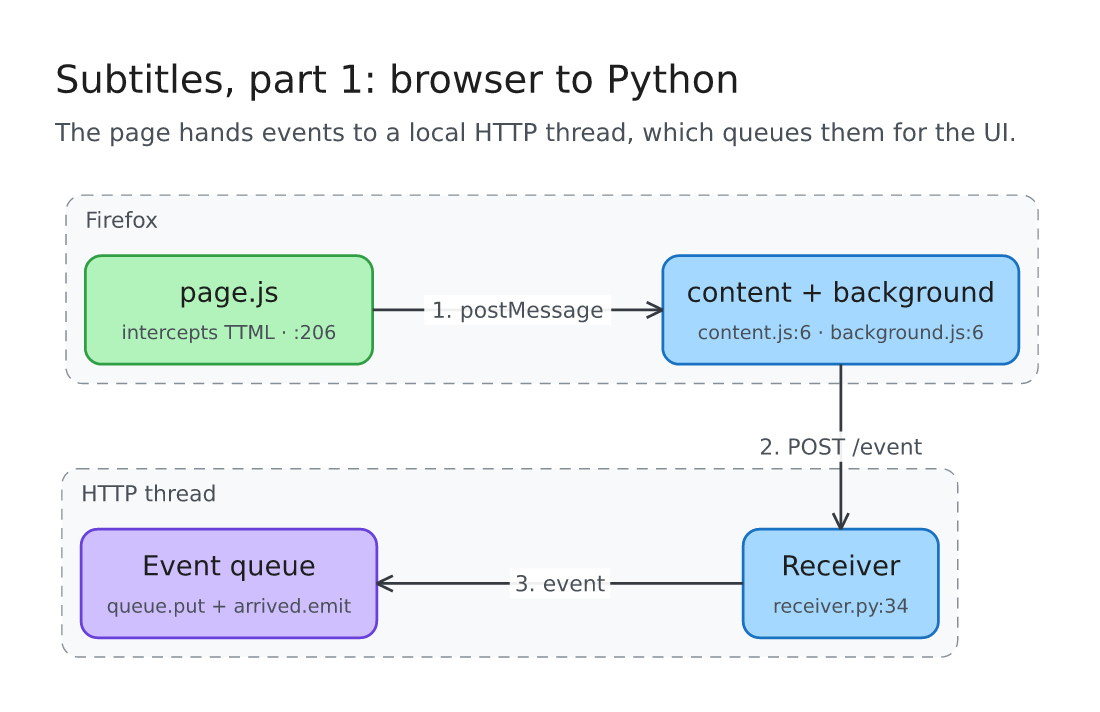
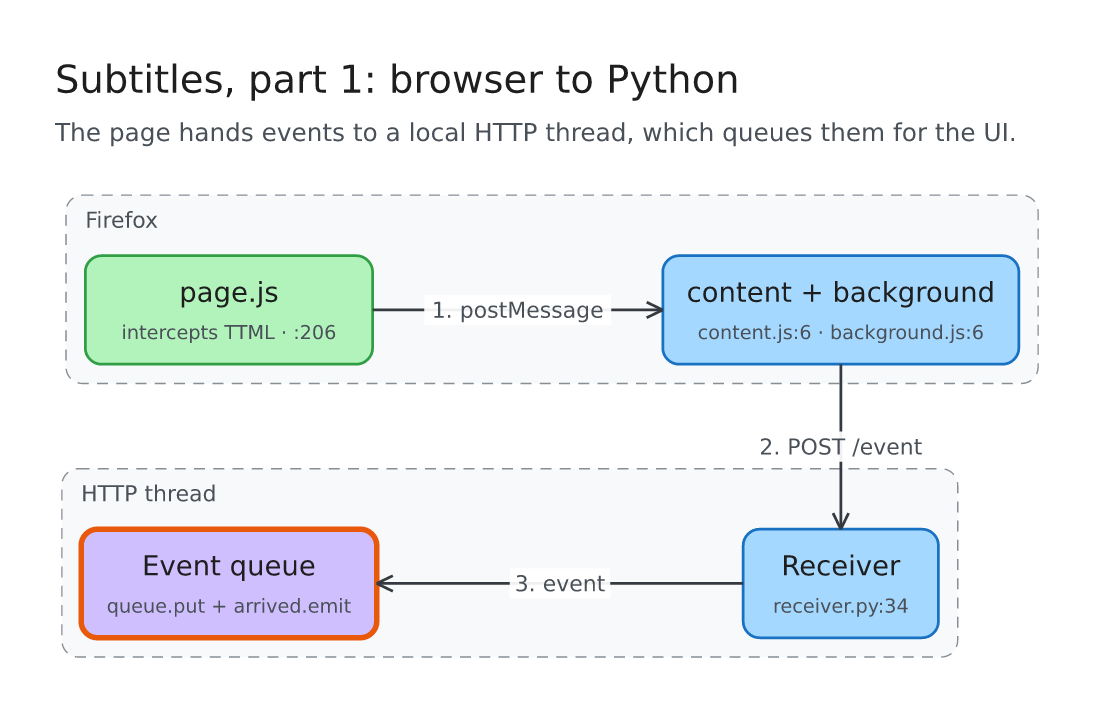
feat: require a proof line per arrow, with an 'unsure' escape hatch
Edges take 'at' (the file:line where the call or handoff happens) and 'unsure'
(drawn dashed with a '?'). The build warns about arrows with neither and prints
a table of arrows with their proof lines for the walkthrough. SKILL.md adds a
'prove every arrow' step to the workflow; examples now carry real proof lines.

Changed region(s): [[0.0618, 0.7416, 0.3709, 0.927]]

diff --git a/skills/code-sketch/SKILL.md b/skills/code-sketch/SKILL.md
@@ -13,13 +13,14 @@ You never write Excalidraw JSON by hand. You write a tiny **spec** (nodes, edges
 
 1. **Pin the question.** Write one sentence the diagram must answer ("How does a hit become a level-up?"). This becomes `takeaway`. If you cannot state it, you are not ready to draw.
 2. **Read just enough code** to answer that question. Note `file:line` for every node you will draw; those references are what lets the reader jump from the picture back to the code.
-3. **Choose what to show** (see "Keeping it small"). Aim for 5-8 nodes; the script refuses more than 12.
-4. **Write the spec** to a scratch file (JSON, format below). Write labels and takeaway in the user's language; keep code identifiers verbatim.
-5. **Build:** `node <skill-dir>/scripts/sketch.mjs spec.json --out ./diagrams`
+3. **Prove every arrow.** An arrow is a claim about the code, and the script cannot check it, so you do. For each arrow, find the line where that call, event, `await` or handoff actually happens and put it in the edge's `at` (`"GameSession.cs:314"`). Direction matters: the arrow starts at whoever *performs* the call or sends the data. If you cannot find the line, either drop the arrow or keep it with `"unsure": true`; it is then drawn dashed with a "?" so the reader knows it is your reading, not the code's. The build warns about arrows that have neither.
+4. **Choose what to show** (see "Keeping it small"). Aim for 5-8 nodes; the script refuses more than 12.
+5. **Write the spec** to a scratch file (JSON, format below). Write labels and takeaway in the user's language; keep code identifiers verbatim.
+6. **Build:** `node <skill-dir>/scripts/sketch.mjs spec.json --out ./diagrams`
    (first run installs two small npm packages by itself; needs Node 18+.)
    If it exits with an error, read the message: it says how to shrink the diagram. Do the shrinking. Text-length errors just need shorter words. `--no-limits` renders a preview of a rejected spec so you can *see* what is wrong; never deliver that one.
-6. **Look at it.** Open the PNG with the Read tool and run the checklist below. Fix the spec and rebuild; you may rebuild at most twice after looking, then deliver the best version and say what is imperfect.
-7. **Deliver:** give the `.excalidraw` path (and say it opens at excalidraw.com via Open/drag-and-drop, or in the VS Code "Excalidraw" extension), then a walkthrough in chat: about 6-10 lines following the numbered arrows, each pointing at `file:line`. Mention what you deliberately left out. The walkthrough matters as much as the picture.
+7. **Look at it.** Open the PNG with the Read tool and run the checklist below. Fix the spec and rebuild; you may rebuild at most twice after looking, then deliver the best version and say what is imperfect.
+8. **Deliver:** give the `.excalidraw` path (and say it opens at excalidraw.com via Open/drag-and-drop, or in the VS Code "Excalidraw" extension), then a walkthrough in chat: about 6-10 lines following the numbered arrows, each pointing at `file:line`. Mention what you deliberately left out, and say which arrows (if any) are `unsure`. The build output lists every arrow with its proof line; reuse it for the `file:line` references. The walkthrough matters as much as the picture.
 
 ## Spec format
 
@@ -34,7 +35,7 @@ You never write Excalidraw JSON by hand. You write a tiny **spec** (nodes, edges
   "nodes": [
     { "id": "a", "label": "HitEnemy", "sub": "GameSession.cs:308", "kind": "process", "group": "g1", "focus": true }
   ],
-  "edges": [{ "from": "a", "to": "b", "label": "morreu", "dashed": false }]
+  "edges": [{ "from": "a", "to": "b", "label": "morreu", "at": "GameSession.cs:321" }]
 }
 ```
 
@@ -47,6 +48,8 @@ You never write Excalidraw JSON by hand. You write a tiny **spec** (nodes, edges
 | `sub` | Small second line: `file:line` or a 3-6 word role. Max 48 chars; this is also where "which file" goes. |
 | `focus` | Orange thick border. Give it to the one node the reader must remember. |
 | `group` | Dashed box around nodes that form **one consecutive stretch of the flow** (a phase: "setup", "per frame", "on death"). It is not "same file": two methods of one file used at different moments go in different phases, with the file in each `sub`. The script warns when members are not linked to each other. |
+
+Edge fields: `label` (what travels or why), `at` (file:line proving the arrow), `unsure` (dashed with "?", for inferred arrows), `dashed` (optional/async), `both` (one two-headed arrow instead of A→B plus B→A, e.g. "schedule / refresh").
 
 Edge order matters when `numbered` is on: list edges in the order things happen.
 
